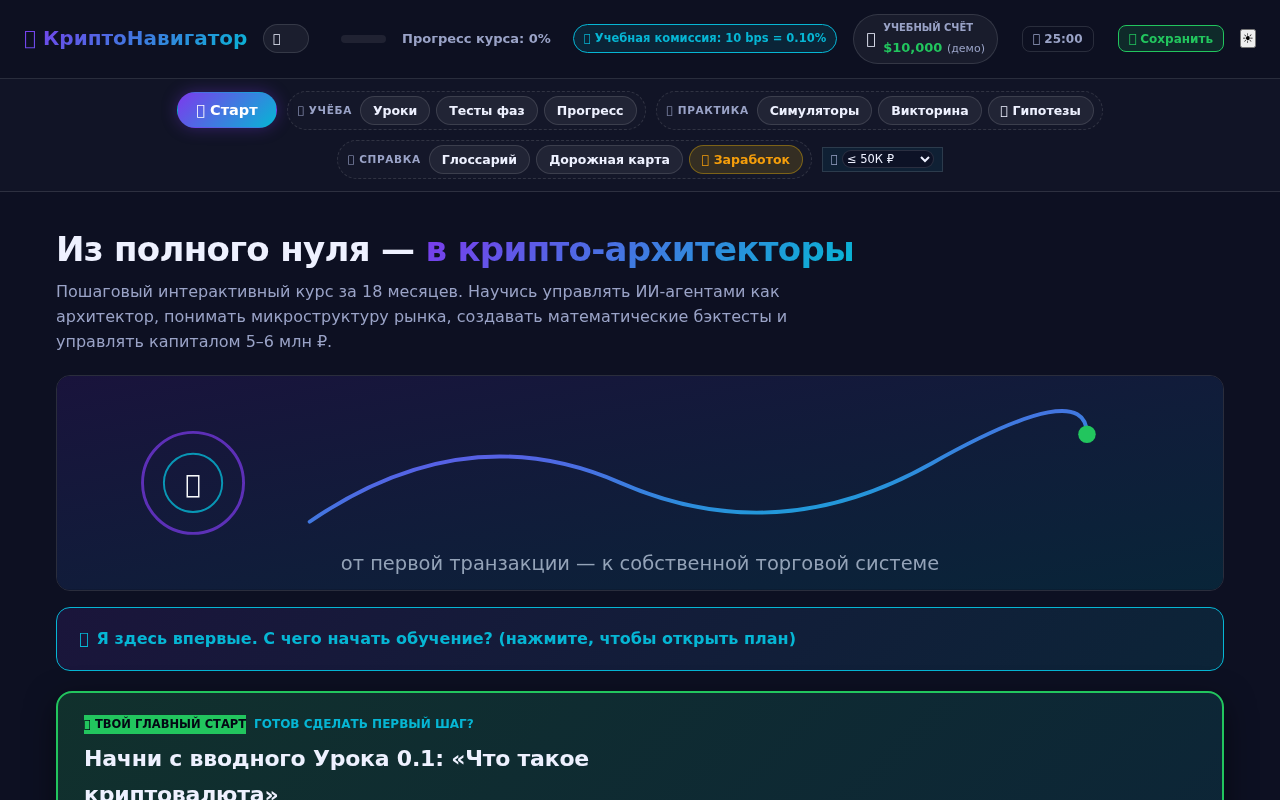
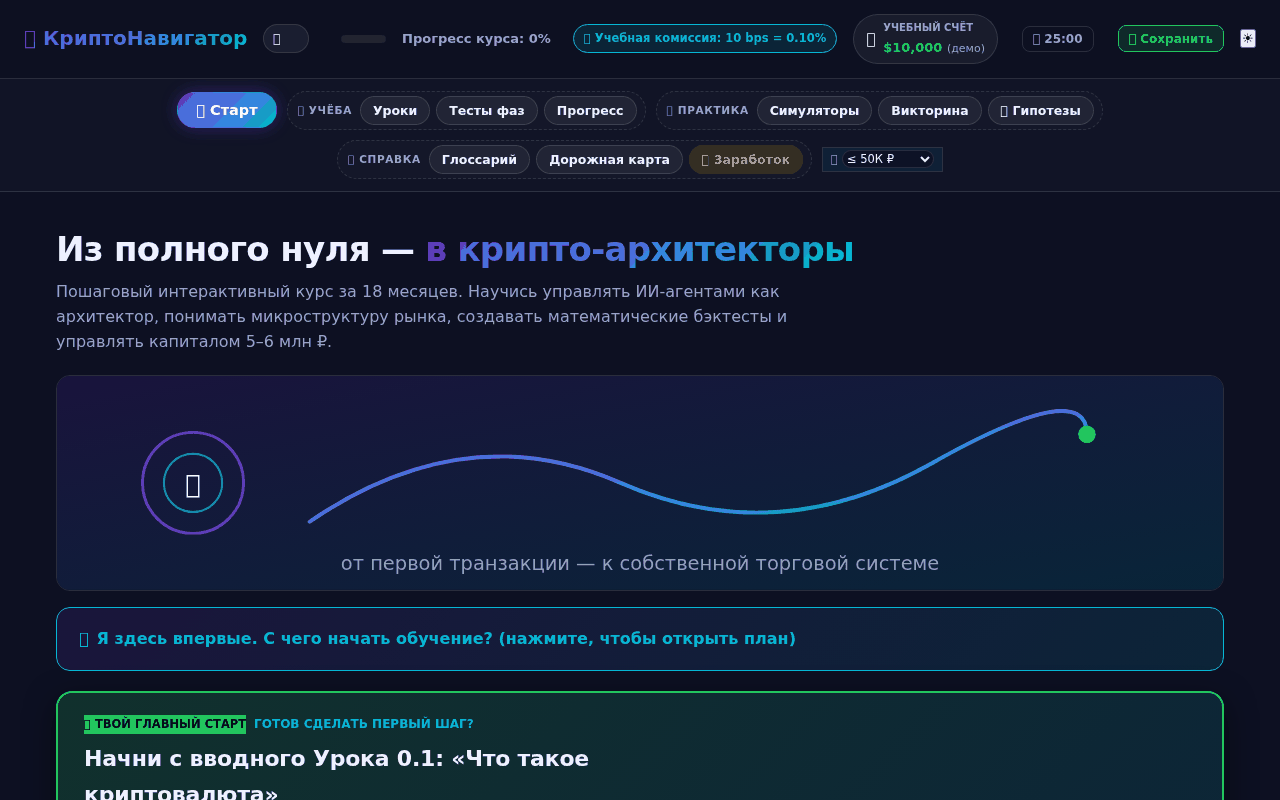
Docs: сжал скриншоты (−66%) + добавил GIF-анимацию тренажёра
PNG 1160KB → 388KB (квантование 256 цветов, Pillow).
Новый 09-trainer-demo.gif: прохождение «Тревога в 03:00», 14 кадров, 567KB.

diff --git a/README.md b/README.md
@@ -105,6 +105,10 @@
 
 Кульминация — **«Письмо из будущего»**: ты письменно описываешь, как через год потерял капитал, и к каждой причине ставишь предохранитель. Письмо сохраняется и перечитывается ежеквартально. Это документ №2 по важности после устава.
 
+Так выглядит прохождение тренажёра «Тревога в 03:00» — решаешь, что делать с каждым ночным уведомлением:
+
+![Демо тренажёра](docs/screenshots/09-trainer-demo.gif)
+
 ---
 
 ## 🛠 Технически
